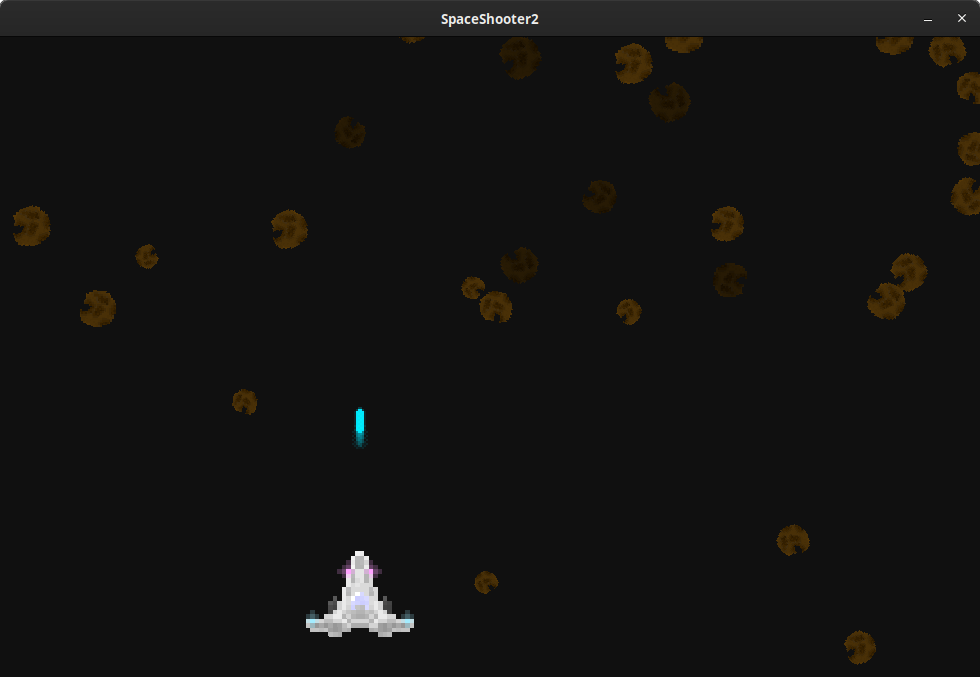
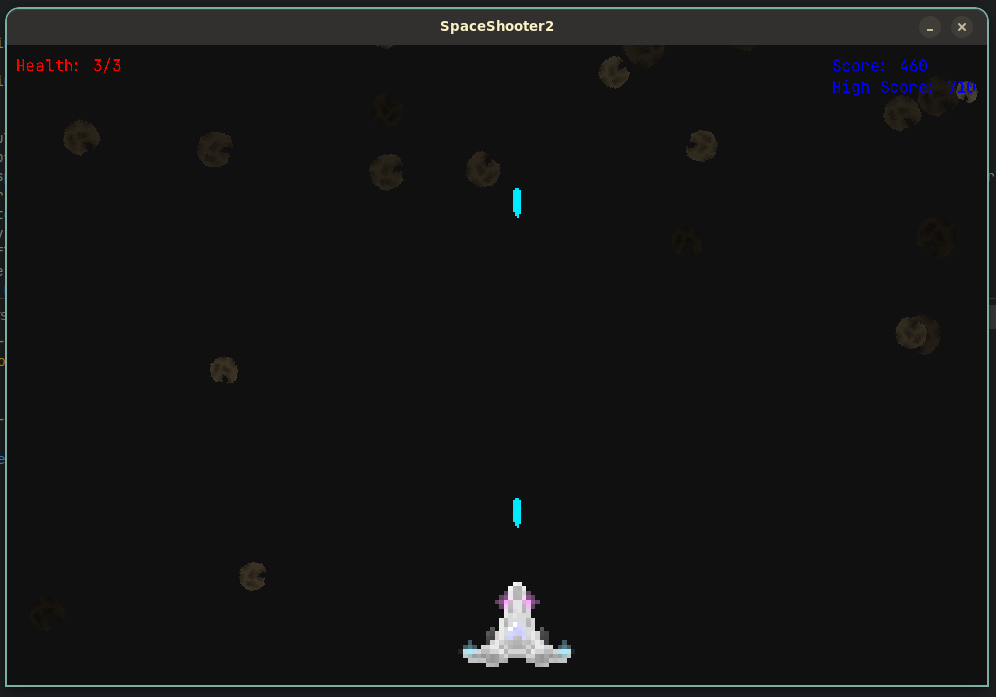
write spaceshooter article

diff --git a/website/project/spaceshooter.html b/website/project/spaceshooter.html
@@ -1,0 +1,96 @@
+<!DOCTYPE html>
+<html lang="en">
+
+<head>
+    $HEAD "Space Shooter"$
+</head>
+
+<body>
+    <!-- navigation -->
+    $NAVBAR "flicker-on-load-3" "" "flicker-on-load-3" ""$
+
+    <!-- contents -->
+    <div class="container">
+        <div>
+            <h1 class="flicker-on-load-2">Space Shooter</h1>
+            01 December, 2024
+            <hr />
+            <div>
+                <h3>Introduction</h2>
+                    <p>In this project I created a spaceshooter utilising C# and MonoGame.</p>
+                    <p>I split the game up in two components which we shall refer to as "core" and "gameplay".
+                        The core assembly is in charge of the behind-the-scenes game logic and data which we will go more in-depth about at <a href="#indepth">What the code is doing</a>.
+                        And the gameplay assembly is in charge of the logic and data, which is the part a player would mostly interact with.
+                    </p>
+                    <p>Two libraries of mine have been used in conjunction with this project: <a href="binaryserializer.html">BinarySerializer</a> and <a href="pixelcontrollayer.html">PixelControlLayer</a>.
+                        For the case of "BinarySerializer", this project was concepted whilst developing this project. But was split into it's own module, so I could expand upon it more easily.</p>
+            </div>
+            <div class="container">
+                <div>
+                    <h3>Gameplay</h3>
+                    <p>Once you launch the game, you immediately start playing. If you lose, the game is over and therefore closed.</p>
+                    <p>An asteroid is periodically spawned at the top of the screen, and will make it's way down. Their speed, location and size is randomised.
+                        Occasionally, this asteroid will be marked as "unbreakable". These spawn directly above the player with their texture darkened a lot more than usual to communicate to the player that these cannot be destroyed.
+                    </p>
+                    <p>At the top left of the window the health is displayed, and the top right is the score and highscore. The highscore is saved when the game is exited, usually due to the player's health reaching 0.</p>
+                    <p>The game contains sound effects for when the player is damaged, the player destroys an asteroid and the game is lost.</p>
+                    <a href="https://github.com/thepigeongenerator/SpaceShooter2">[read more]</a>
+                </div>
+                <div class="img-container"><img src="https://github.com/thepigeongenerator/SpaceShooter2/blob/master/docs/showcase.gif?raw=true" alt="" /></div>
+            </div>
+            <div>
+                <h3 id="indepth">What the code is doing</h3>
+                <h4>core assembly</h4>
+                <h5>object registering</h5>
+                <p>We start at the main game class, which creates a reference to the object registry, and performs actions on the registry on the different game events. (initialize, loadcontnet, update, draw)
+                    It implements a singleton design pattern only for within this assembly, in order to allow for some logic without having to explicitally reference the class everywhere.
+                </p>
+                <p>This is mainly used in combination with the object registry, which contains a linked list of GameObjects, which will be populated by the game objects in their constructors.
+                <p>It allocates a few extra lists for the different game events, which it will add a newly created gameobject to if it implements one of the associated interfaces. (IUpdate, etc)
+                    It also contains queues for game objects scheduled for creation and deletion. Which are tasks performed regularly at the end of each update, so the collections are not modified whilst tasks are being performed on them.
+                </p>
+                <p>I am using a linked list, as it is slightly more efficient in terms of what I am trying to do.
+                    Because the operations that will be performed on the list which would impact this decision is additions and deletions. When deleting from a list, we can store an index and tell it what index to delete.
+                    All the elements after this index will have to be moved downwards. When deleting from a linked list, we need to "climb" up to the value we want to delete, and delete it instantaniously.
+                    So, the performance of deletion is equal for list and linked list. Adding an item to a list, would mean re-allocating an array twice the capacity each time it goes over the capacity. Where a linked list can do this immediately.
+                    It is a very minor and likely unnoticeable improvement in performance, but this is the type of stuff I consider when writing code.
+                </p>
+                <h5>gameobjects</h5>
+                <p>Game objects are rather simple definitions. When defining an object with certain charaketistics in the game, you will inherit from this class. Game objects will automatically flag to the registry when they've been created and deleted.
+                    The registry allows the game object to be found when a game event is performed on them, which is the case for a standard derivative of "GameObject". Which is: "TexturedGameObject"</p>
+                <p>Textured game objects implement IDraw, which defines a function for drawing in the class. It also takes some data into it's constructor. Like, what texture to use and some other things.
+                    These fields can be modified by a child class if it needs to. (which has been done to switch out the player's texture to produce a simple animation)</p>
+                <h5>polygons / collision</h5>
+                <p>Lastly, the core assembly has a system in place to allow you to check whether a point is in a circle, a line intersects with the perimiter of a circle, and whether the perimiter of a two dimensional polygon intesects with the perimiter of a circle.</p>
+                <!-- TODO: explain maths more -->
+                <h4>gameplay assembly</h4>
+                <p>This module implements a few things from the core assembly. But, all important data is stored in a record as a global state.
+                    An instance of this record is passed to each object that wishes to use it in their constructor.</p>
+            </div>
+            <div>
+                <h3>Challenges faced</h3>
+                <p>I found the collision most challenging in this project, as this was new to me. Particularly the maths. I did figure it out, and learned a lot about this type of maths and understand what is happening.</p>
+                <p>The rest is stuff I've mostly done already in some form or another in the past. So I was quite comfortable designing the whole structure behind everything.</p>
+            </div>
+            <div>
+                <h3>Utilised tools</h3>
+                <ul>
+                    <li>C#</li>
+                    <li>MonoGame</li>
+                    <li>GIMP (for textures)</li>
+                    <li>Audacity (for sound effects)</li>
+                </ul>
+            </div>
+            <div style="padding-bottom: 3rem;">
+                <h3>Use this library</h3>
+                <p>The library is available on NuGet, you can view some documentation and instructions here: <a target="_blank" rel="noopener noreferrer" href="https://github.com/thepigeongenerator/BinarySerializer/pkgs/nuget/ThePigeonGenerator.Utils.BinarySerializer">[BinarySerializer Package]</a></p>
+            </div>
+        </div>
+    </div>
+
+    <!-- footer -->
+    $FOOTER$
+</body>
+
+
+</html>

diff --git a/website/projects.html b/website/projects.html
@@ -22,12 +22,12 @@
 
     <!-- projects -->
     <div class="container-wrap">
+        $CARD "images/projects/space_shooter.png" "Space Shooter" "A spaceshooter utilising MonoGame and C#." "<a class='button' target='_blank' rel='noopener noreferrer' href='https://github.com/thepigeongenerator/SpaceShooter2'>source</a><a class='button' href='project/spaceshooter'>read more</a>"$
         $CARD "images/projects/library.png" "Binary Serializer" "A library I wrote in C# to allow for converting from and to a binary format." "<a class='button' target='_blank' rel='noopener noreferrer' href='https://github.com/thepigeongenerator/BinarySerializer'>source</a><a class='button' href='project/binaryserializer'>read more</a>"$
         $CARD "images/projects/library.png" "txtinsert" "A CLI Utility written in Rust, used in this website's source code." "<a class='button' target='_blank' rel='noopener noreferrer' href='https://github.com/thepigeongenerator/txtinsert'>source</a><a class='button' href='project/txtinsert'>read more</a>"$
         $CARD "images/projects/towaria.png" "Towaria" "A school project where we worked on mobile development, using Unity and C#" "<a class='button' target='_blank' rel='noopener noreferrer' href='https://github.com/Egg321123/J2P1_microgame'>source</a><a class='button' href='project/towaria'>read more</a>"$
         $CARD "images/projects/breakout_clone.png" "Breakout Clone" "I recreated breakout in C utilising SDL, in order to get accustomed to both." "<a class='button' target='_blank' rel='noopener noreferrer' href='https://github.com/thepigeongenerator/breakout_clone'>source</a><a class='button' target='_blank' rel='noopener noreferrer' href='https://thepigeongenerator.itch.io/breakout-clone'>itch.io</a>"$
         $CARD "images/projects/library.png" "Pixel Control Layer" "A C# MonoGame library I wrote to allow for individual pixel control." "<a class='button' target='_blank' rel='noopener noreferrer' href='https://github.com/thepigeongenerator/PixelControlLayer'>source</a><a class='button' href='project/pixelcontrollayer'>read more</a>"$
-        $CARD "images/projects/space_shooter.png" "Space Shooter" "A spaceshooter utilising MonoGame and C#." "<a class='button' target='_blank' rel='noopener noreferrer' href='https://github.com/thepigeongenerator/SpaceShooter2'>source</a>"$
         $CARD "images/projects/baba_is_you_clone.png" "Baba is You Clone" "A project where I made a bare-bones Baba is You clone using Unity and C#." "<a class='button' target='_blank' rel='noopener noreferrer' href='https://github.com/thepigeongenerator/baba_is_you_clone'>source</a>"$
         <!-- $CARD "images/projects/pathfinding_test.png" "Pathfinding Test" "A C# console application to get known with the A* pathfinding algorithm." "<a class='button' target='_blank' rel='noopener noreferrer' href='https://github.com/thepigeongenerator/J1P4_Pathfinding_Test'>source</a>"$ -->
         <!-- $CARD "images/projects/text_adventure.png" "Text Adventure" "A simple text adventure written in C#. The first 'bigger' project I made in C#." "<a class='button' target='_blank' rel='noopener noreferrer' href='https://github.com/thepigeongenerator/TextAdventure'>source</a>"$ -->
